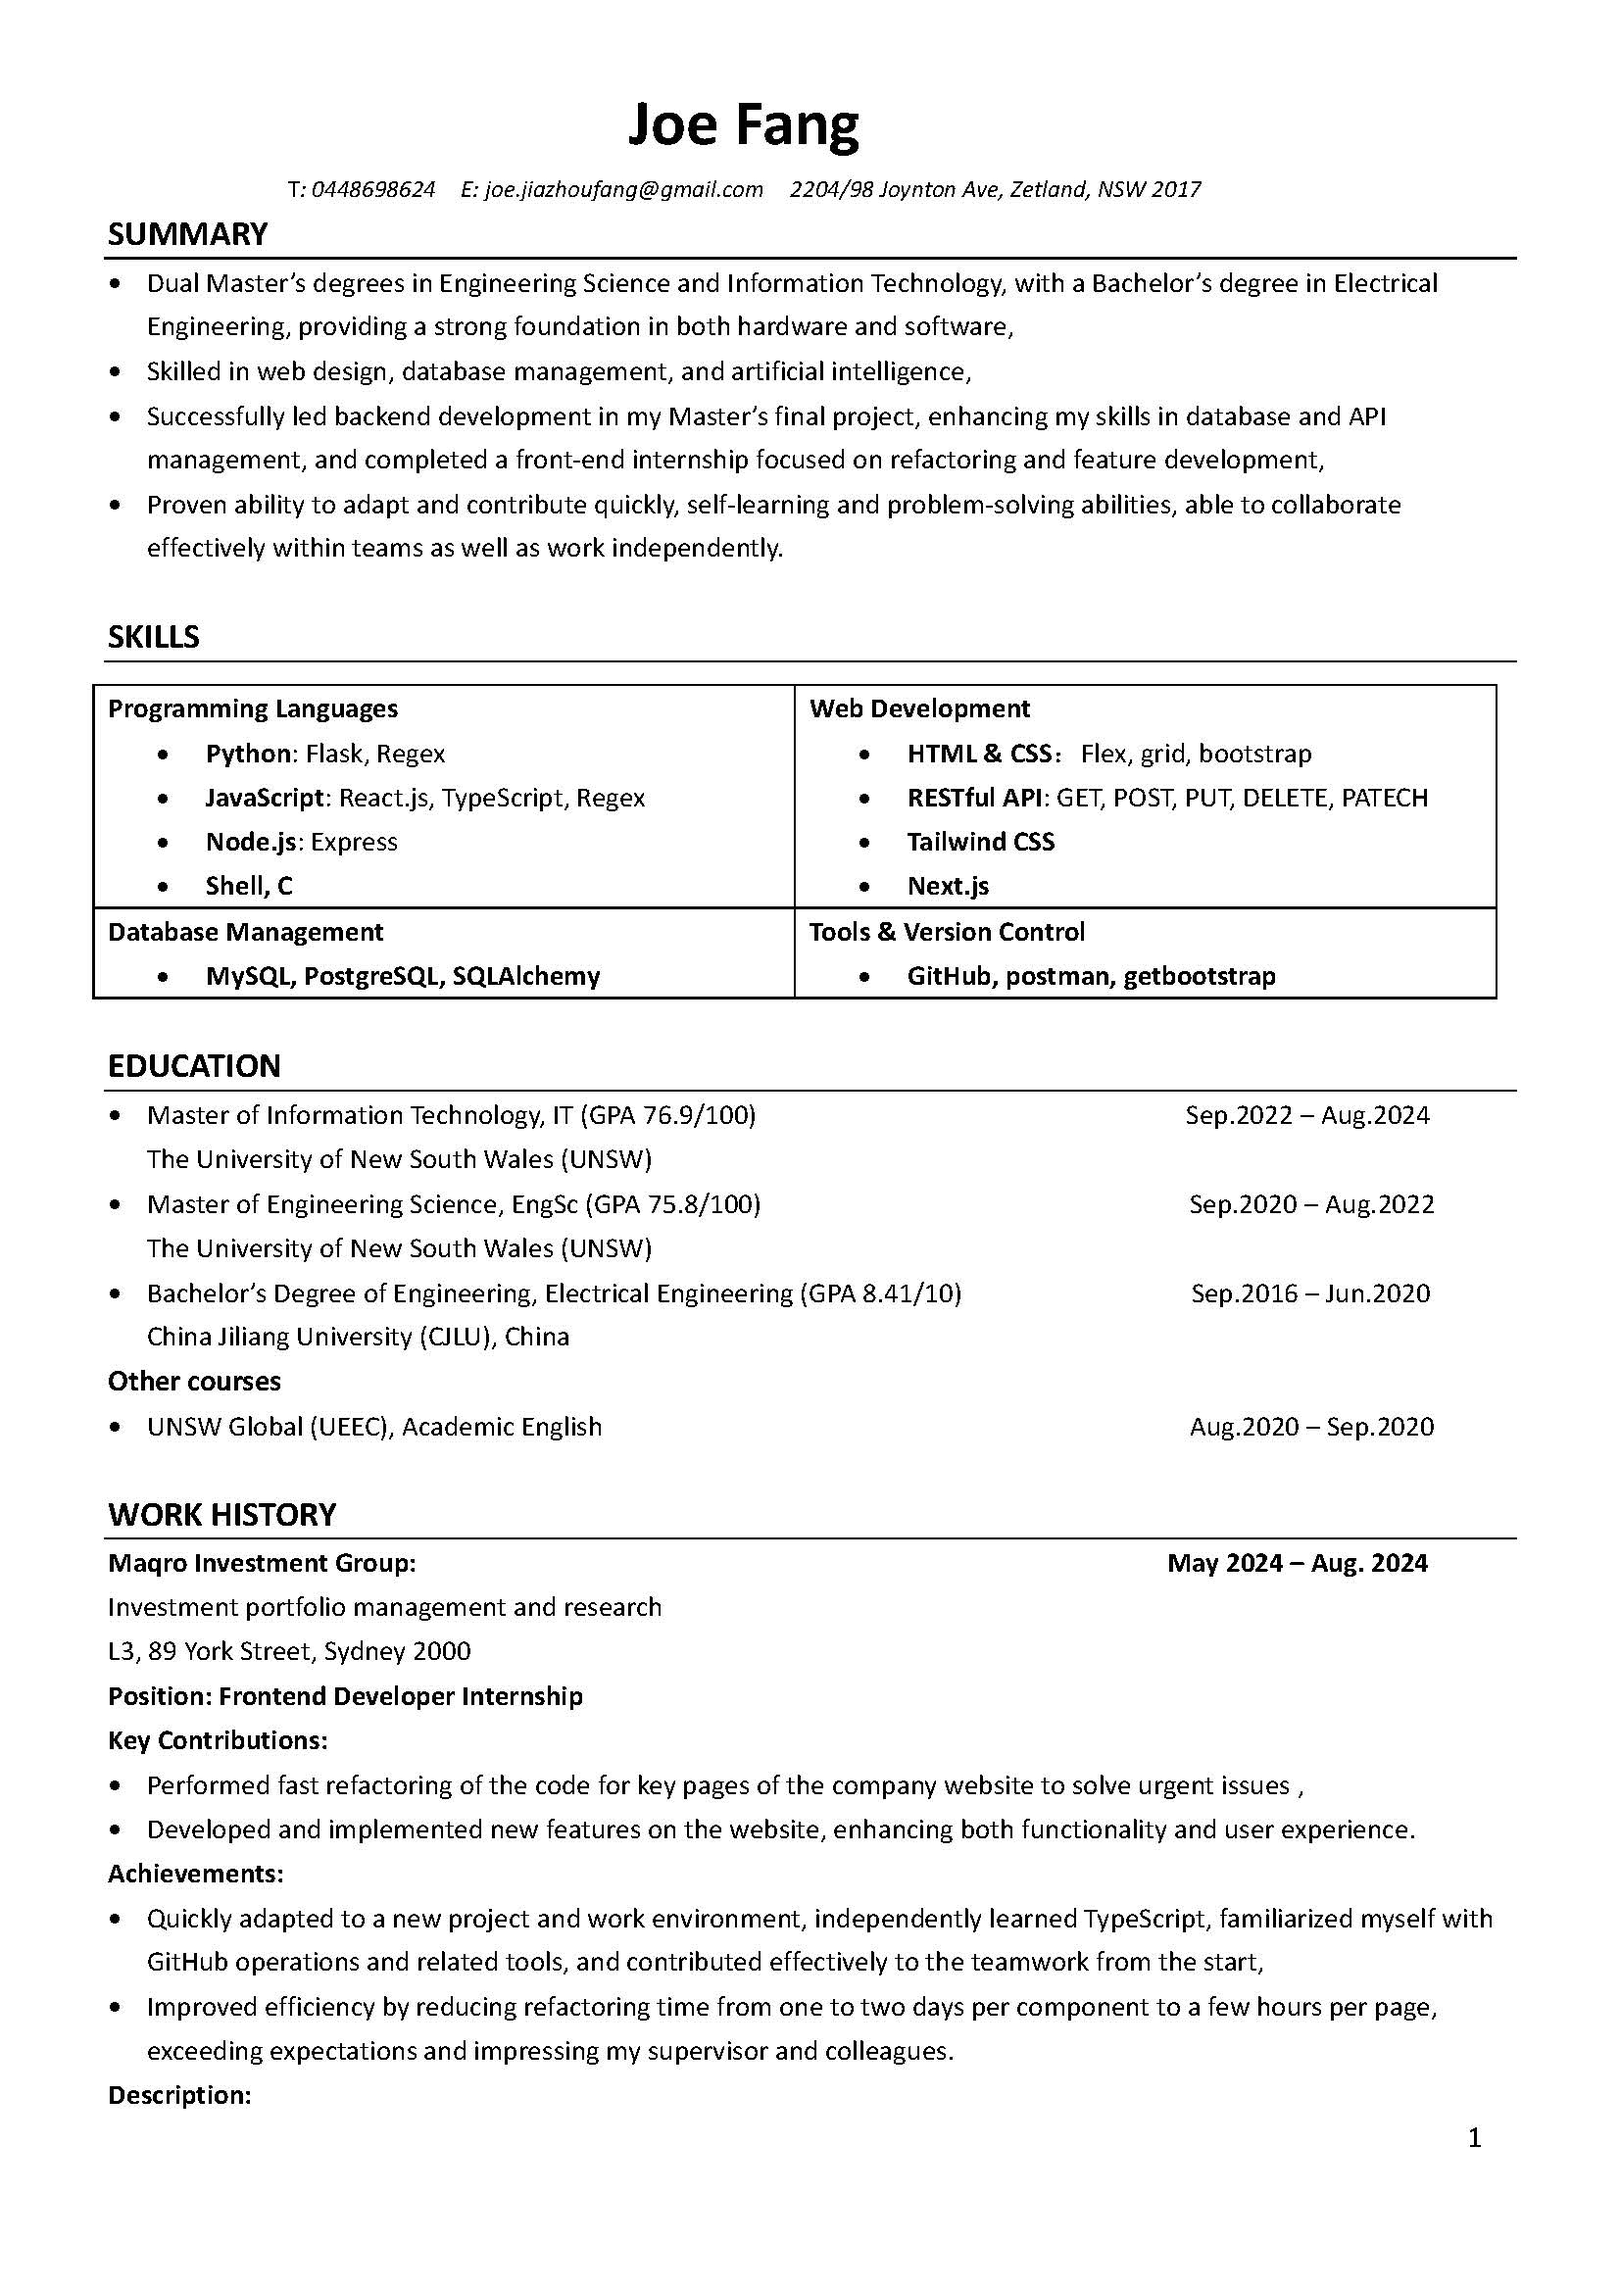
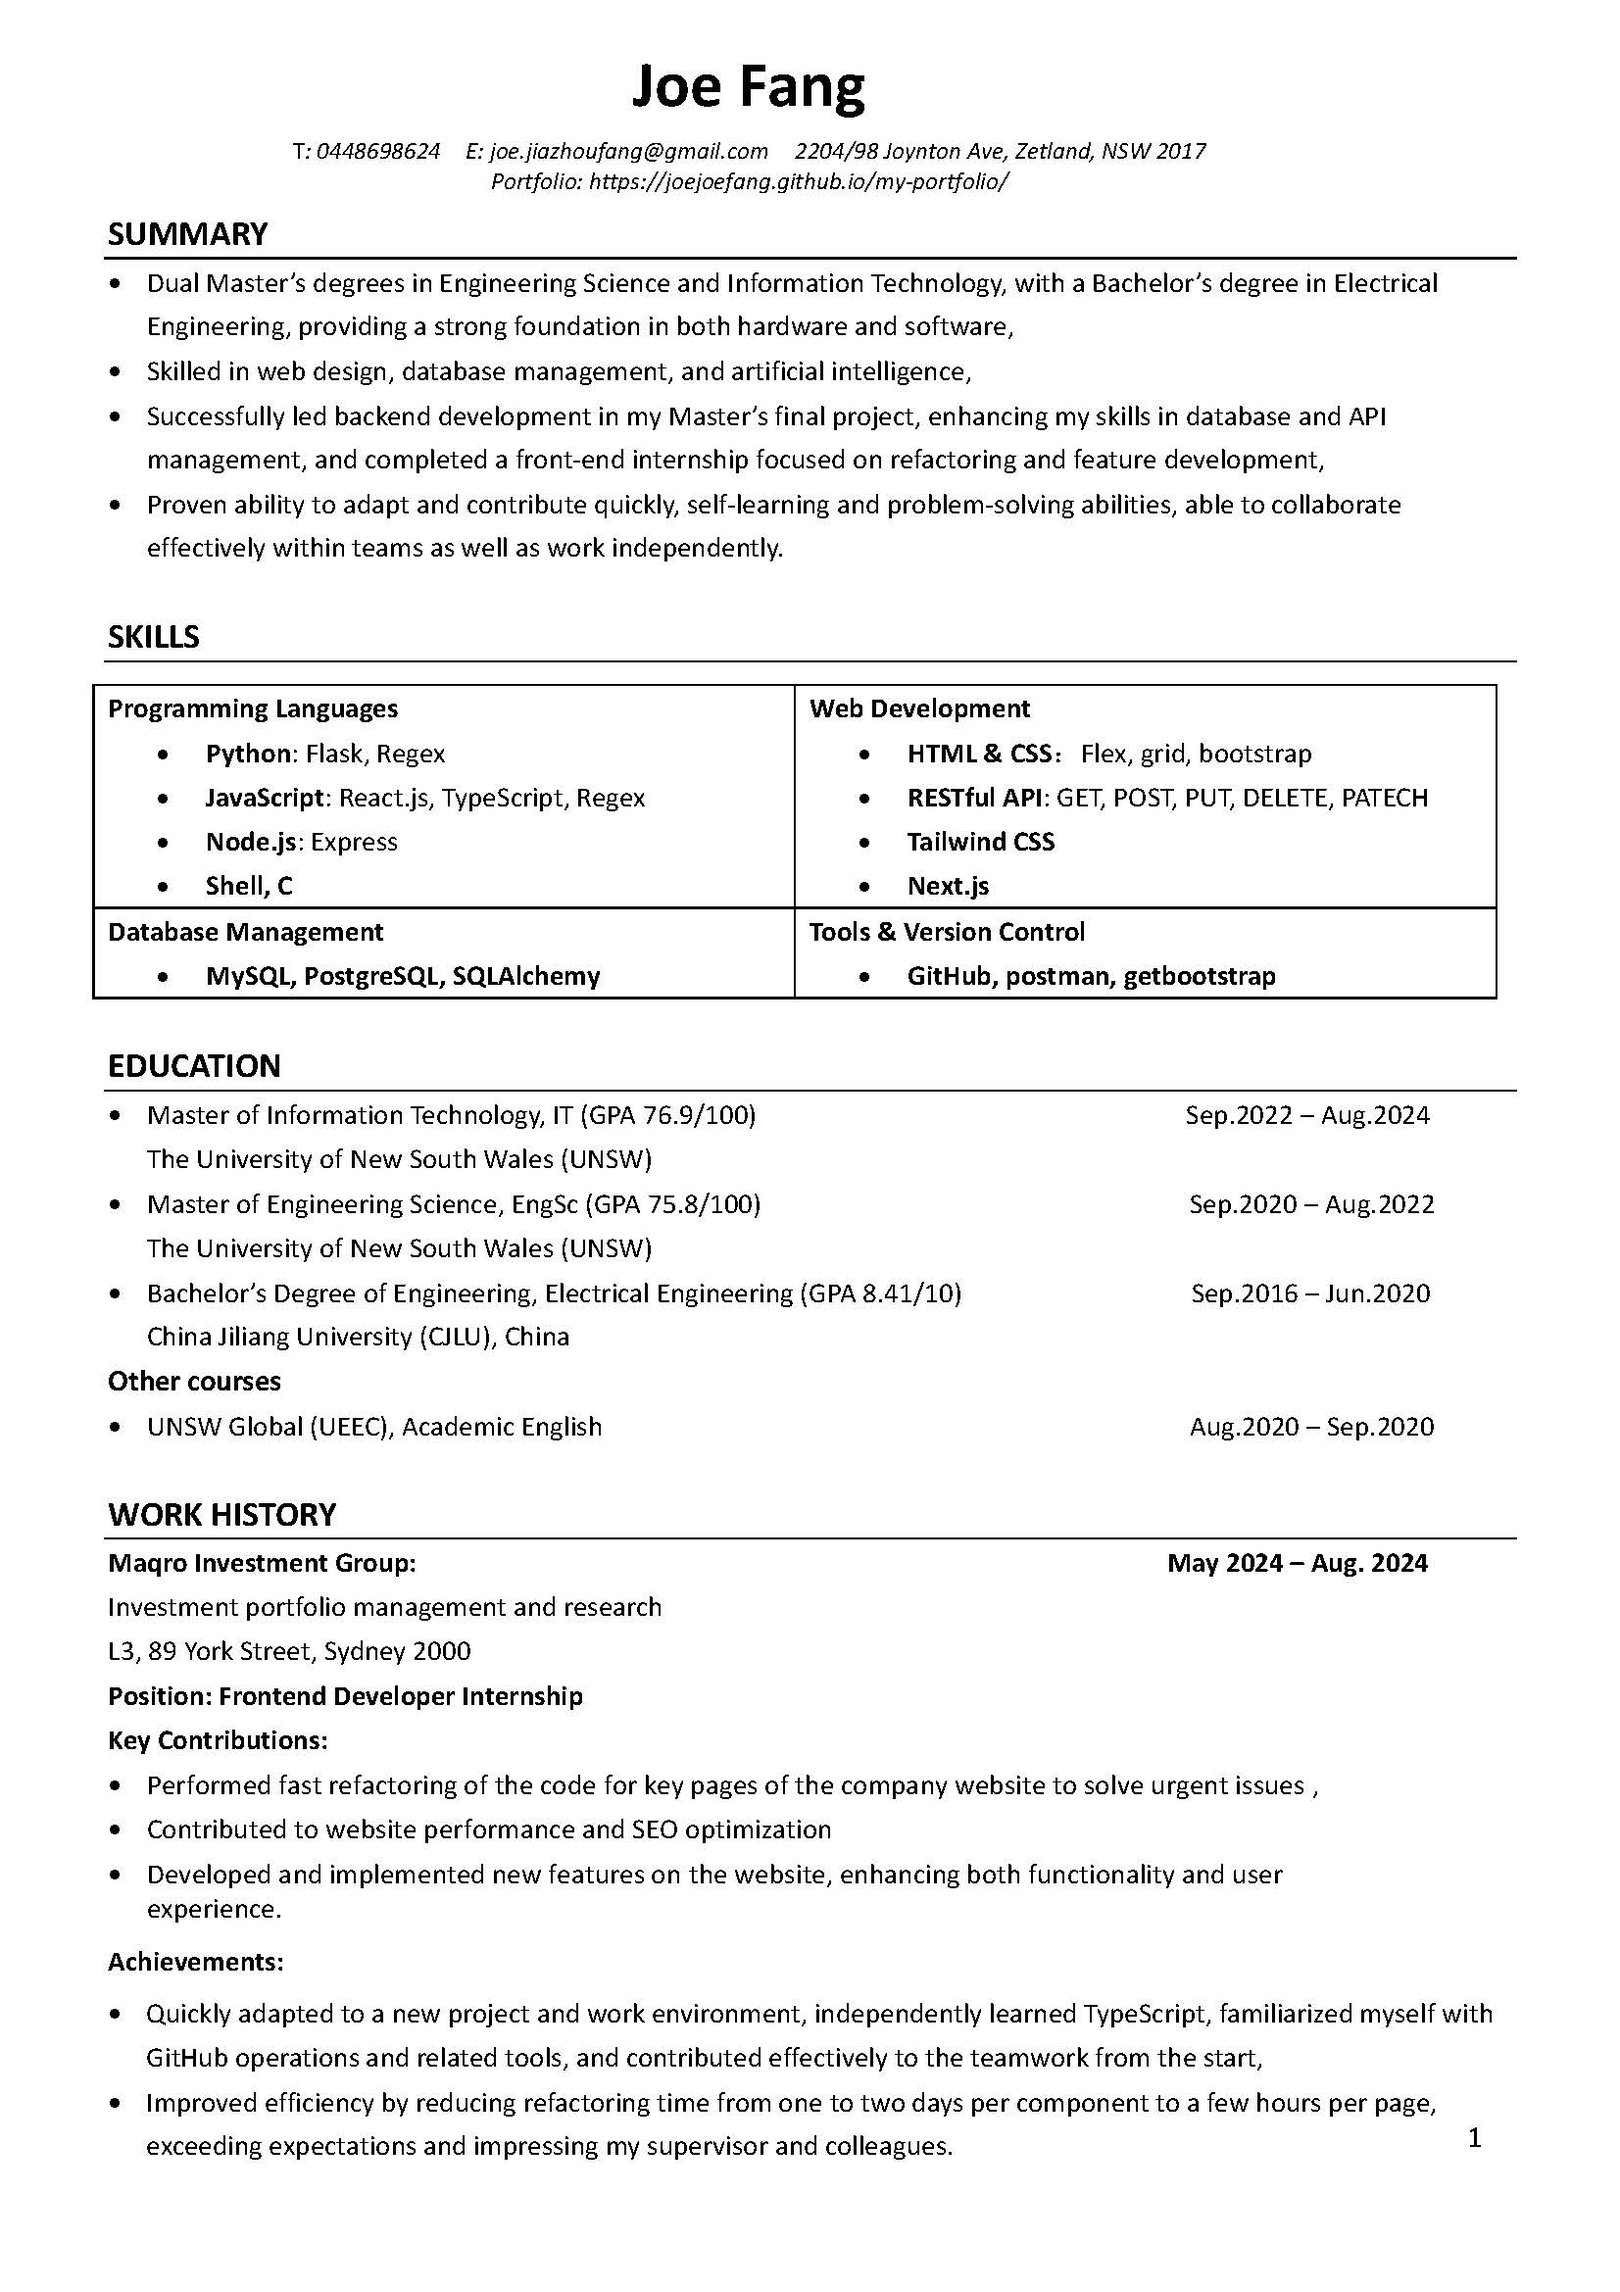
cv edit

Changed region(s): [[0.0617, 0.7802, 0.8947, 0.9363], [0.1851, 0.0312, 0.7405, 0.0936]]

diff --git a/src/components/NameCard/NameCard.css b/src/components/NameCard/NameCard.css
@@ -8,7 +8,7 @@
   "a a a a b"
   "a a a a b"
   "c c c c d"
-  "c c c c e"
+  "c c c c d"
   "f f f f e";
   margin-bottom: 30%;
   background-color:  rgba(237, 239, 228, 1);
@@ -42,6 +42,13 @@
   }
 } */
 
+.name-card__profile-container{
+  grid-area: d;
+  display: flex;
+  flex-direction: column;
+  align-items: center;
+}
+
 .name-card__profile{
   grid-area: d;
   display: flex; 
@@ -67,6 +74,7 @@
     text-decoration: underline
   }
 }
+
 
 .name-card__down{
   grid-area: e;
